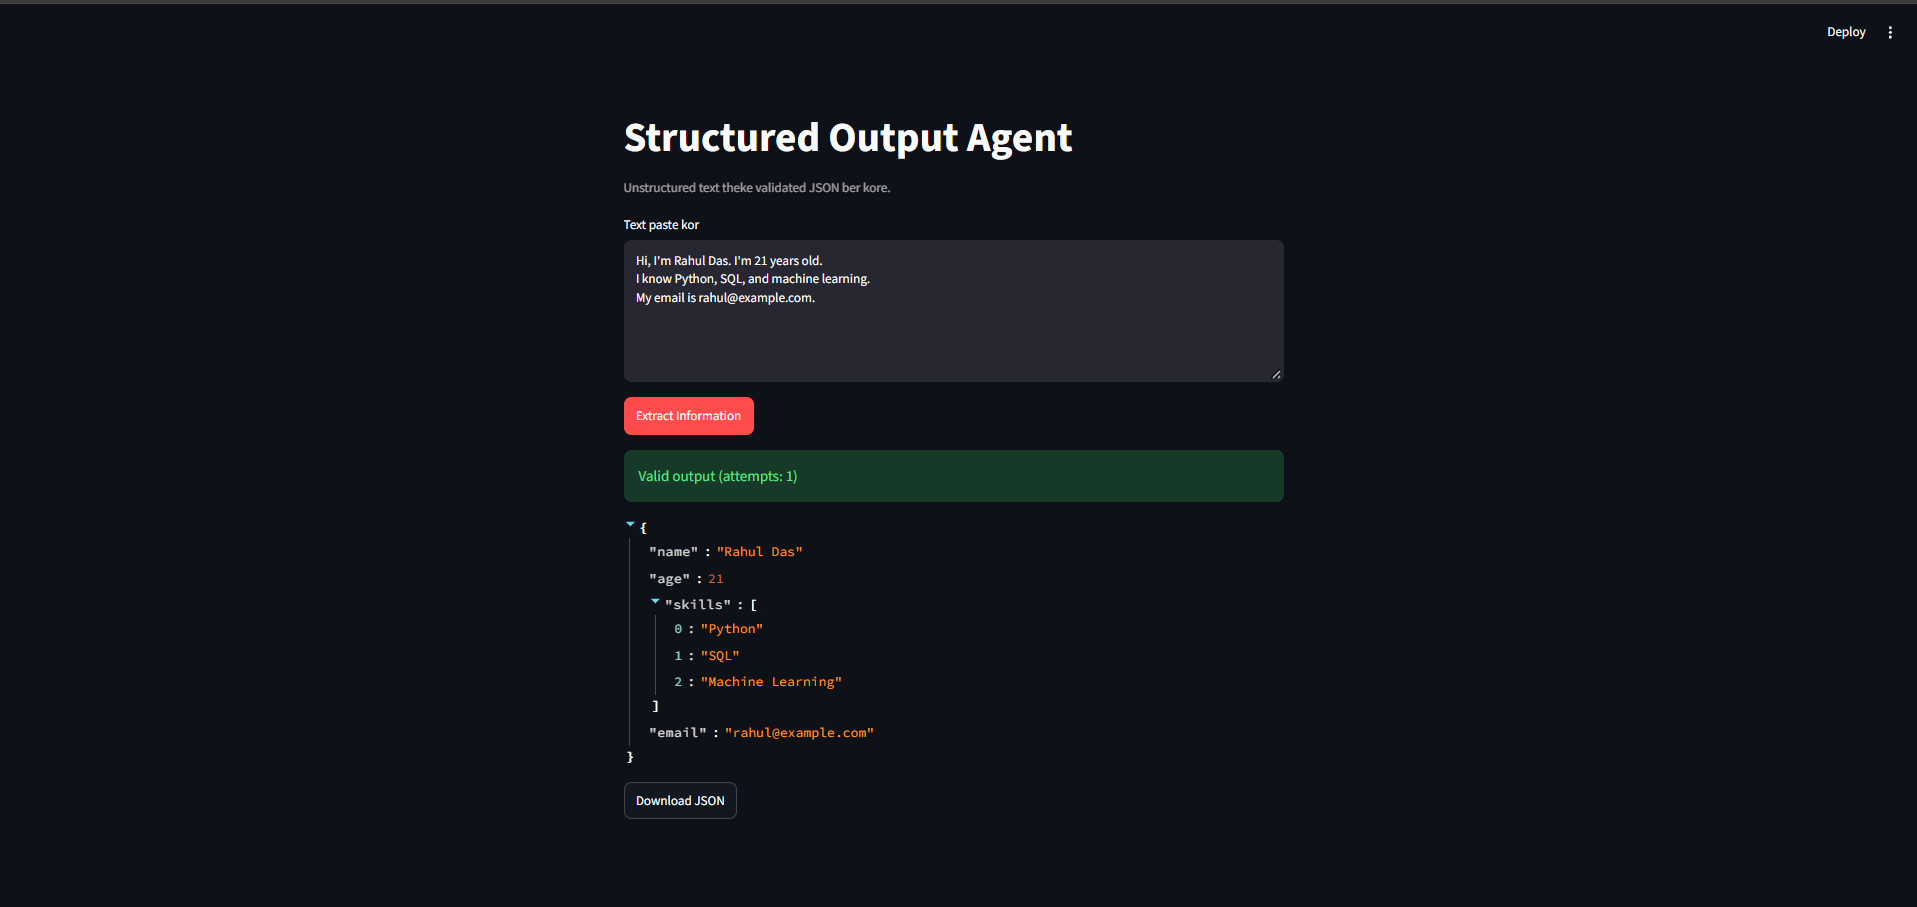
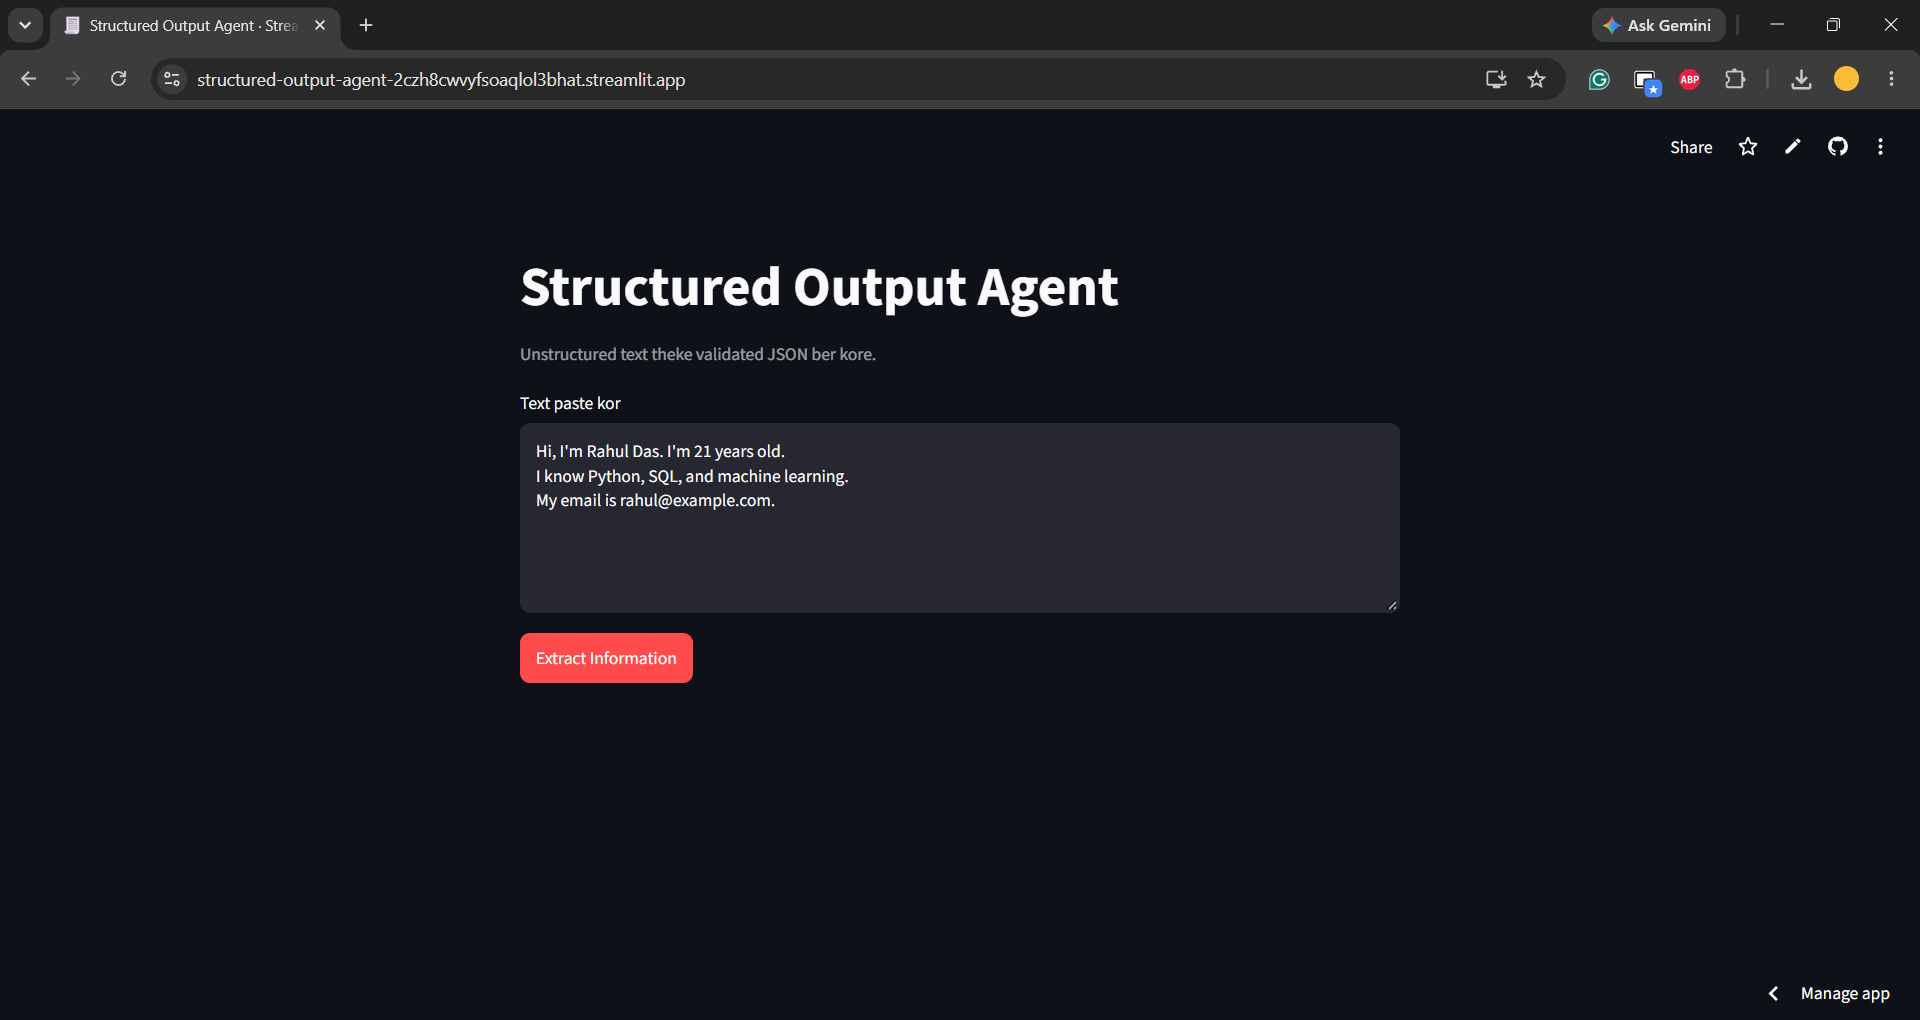
Update README with live demo and full docs

diff --git a/README.md b/README.md
@@ -1,60 +1,26 @@
 # Structured Output Agent
 
-Unstructured text ke validated JSON e convert kore. LLM field gulo extract kore,
-Pydantic schema diye check hoy, ar fail hole validation error shoho maximum 3 bar retry kore.
-Sob attempt fail hole clear error dey, fake output dey na.
+Converts unstructured text into validated, predictable JSON. An LLM extracts the fields, a Pydantic schema checks them, and if validation fails the agent retries with the error feedback (maximum 3 attempts). If every attempt fails, it returns a clear error instead of pretending the output is valid.
+
+**Live demo:** https://structured-output-agent-2czh8cwvyfsoaqlol3bhat.streamlit.app/
 
 ![App screenshot](screenshots/app.png)
 
+## Features
+
+- Extracts `name`, `age`, `skills` and `email` from free-form text
+- Never invents missing details: unknown values become `null` (or `[]` for skills)
+- Rejects unexpected fields and validates types and email format
+- Bounded retry loop that feeds validation errors back to the LLM
+- Handles empty input, malformed JSON and API failures without crashing
+- Streamlit UI with a JSON result panel and a download button
+- Automated tests that use a fake LLM, so no API key is needed to run them
+
 ## Pipeline
 
+```
 User input -> LLM extraction -> JSON parsing -> Schema validation -> Error-correction retry -> Valid JSON or clear failure
-
-## Tech stack
-
-Python, Pydantic, Groq API, Streamlit, pytest
-
-## Setup
-
-```bash
-git clone https://github.com/mrrohan4321/structured-output-agent.git
-cd structured-output-agent
-python -m venv .venv
-.venv\Scripts\activate
-pip install -r requirements.txt
 ```
-
-Project root e `.env` file banao:
-
-```
-GROQ_API_KEY=your-key-here
-```
-
-Key nite: https://console.groq.com/keys
-
-## Run
-
-```bash
-streamlit run app.py
-```
-
-## Test
-
-```bash
-pytest
-```
-
-Tests e real LLM call hoy na, fake LLM use kora hoy.
-
-## Project structure
-
-| File | Kaj |
-|---|---|
-| `schemas.py` | Pydantic `ContactProfile` (extra fields forbidden) |
-| `validator.py` | JSON parsing ar validation |
-| `agent.py` | LLM call ar bounded retry loop |
-| `app.py` | Streamlit UI |
-| `tests/test_agent.py` | Automated tests |
 
 ## Example
 
@@ -77,8 +43,77 @@ Output:
 }
 ```
 
+Input with missing details:
+
+```
+My name is Priya.
+```
+
+Output:
+
+```json
+{
+  "name": "Priya",
+  "age": null,
+  "skills": [],
+  "email": null
+}
+```
+
+## Tech stack
+
+Python, Pydantic, Groq API, Streamlit, pytest
+
+## Project structure
+
+| File | Purpose |
+|---|---|
+| `schemas.py` | Pydantic `ContactProfile` model (extra fields forbidden) |
+| `validator.py` | JSON parsing and schema validation helpers |
+| `agent.py` | LLM call and bounded retry loop |
+| `app.py` | Streamlit interface |
+| `tests/test_agent.py` | Automated tests |
+
+## Setup
+
+```bash
+git clone https://github.com/mrrohan4321/structured-output-agent.git
+cd structured-output-agent
+python -m venv .venv
+.venv\Scripts\activate        # Mac/Linux: source .venv/bin/activate
+pip install -r requirements.txt
+```
+
+Create a `.env` file in the project root:
+
+```
+GROQ_API_KEY=your-key-here
+```
+
+Get a free key at https://console.groq.com/keys. Never commit `.env` (it is already in `.gitignore`).
+
+Optional: set `LLM_MODEL` in `.env` to use a different Groq model.
+
+## Run
+
+```bash
+streamlit run app.py
+```
+
+## Test
+
+```bash
+pytest
+```
+
+Tests cover valid input, missing fields, invalid email, wrong types, extra fields, malformed JSON, empty input, retry recovery, retry exhaustion and API failure. They never call the real LLM.
+
+## Deployment
+
+The live demo runs on Streamlit Community Cloud. The API key is stored in the host's secrets settings, not in the repository.
+
 ## Known limitations
 
-- Schema fixed (`name`, `age`, `skills`, `email`). Notun field lagle `schemas.py` ar prompt edit korte hobe.
-- Validator structure check kore, information er satyota na. LLM bhul information dileo schema pass korte pare.
-- Free Groq tier e rate limit ache.
+- The schema is fixed (`name`, `age`, `skills`, `email`). New fields require editing `schemas.py` and the prompt in `agent.py`.
+- Validation checks structure, not truth. If the LLM extracts a wrong value that still fits the schema, it will pass.
+- The live demo shares one free API key, so heavy use may hit rate limits.
